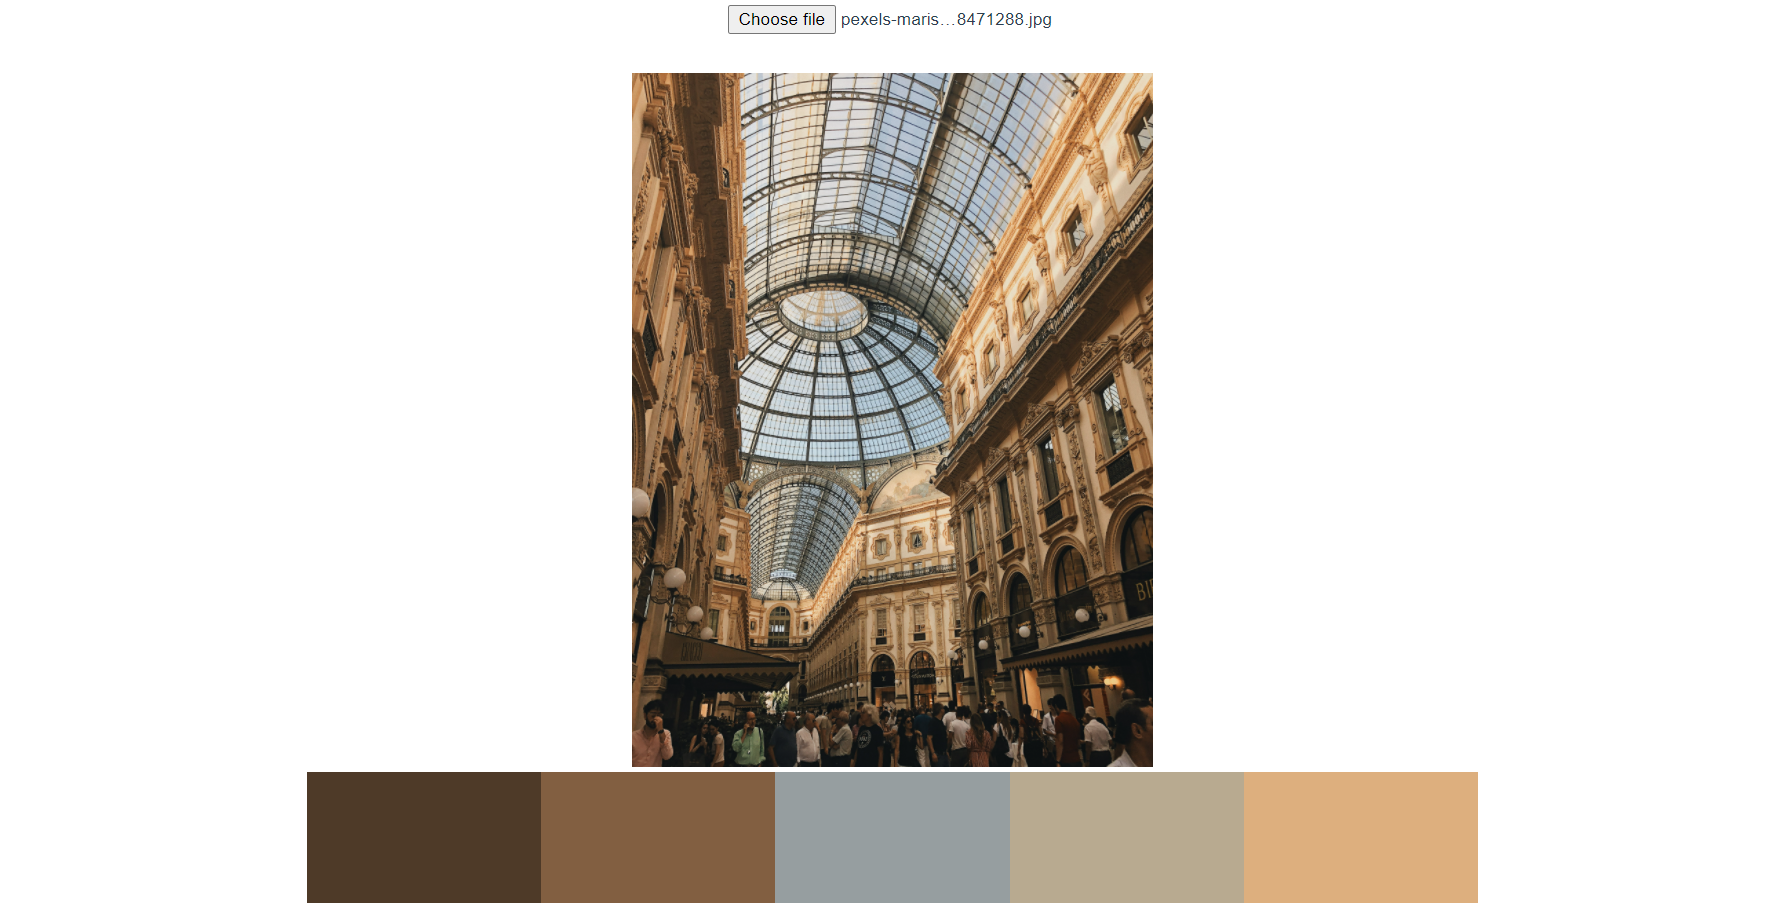
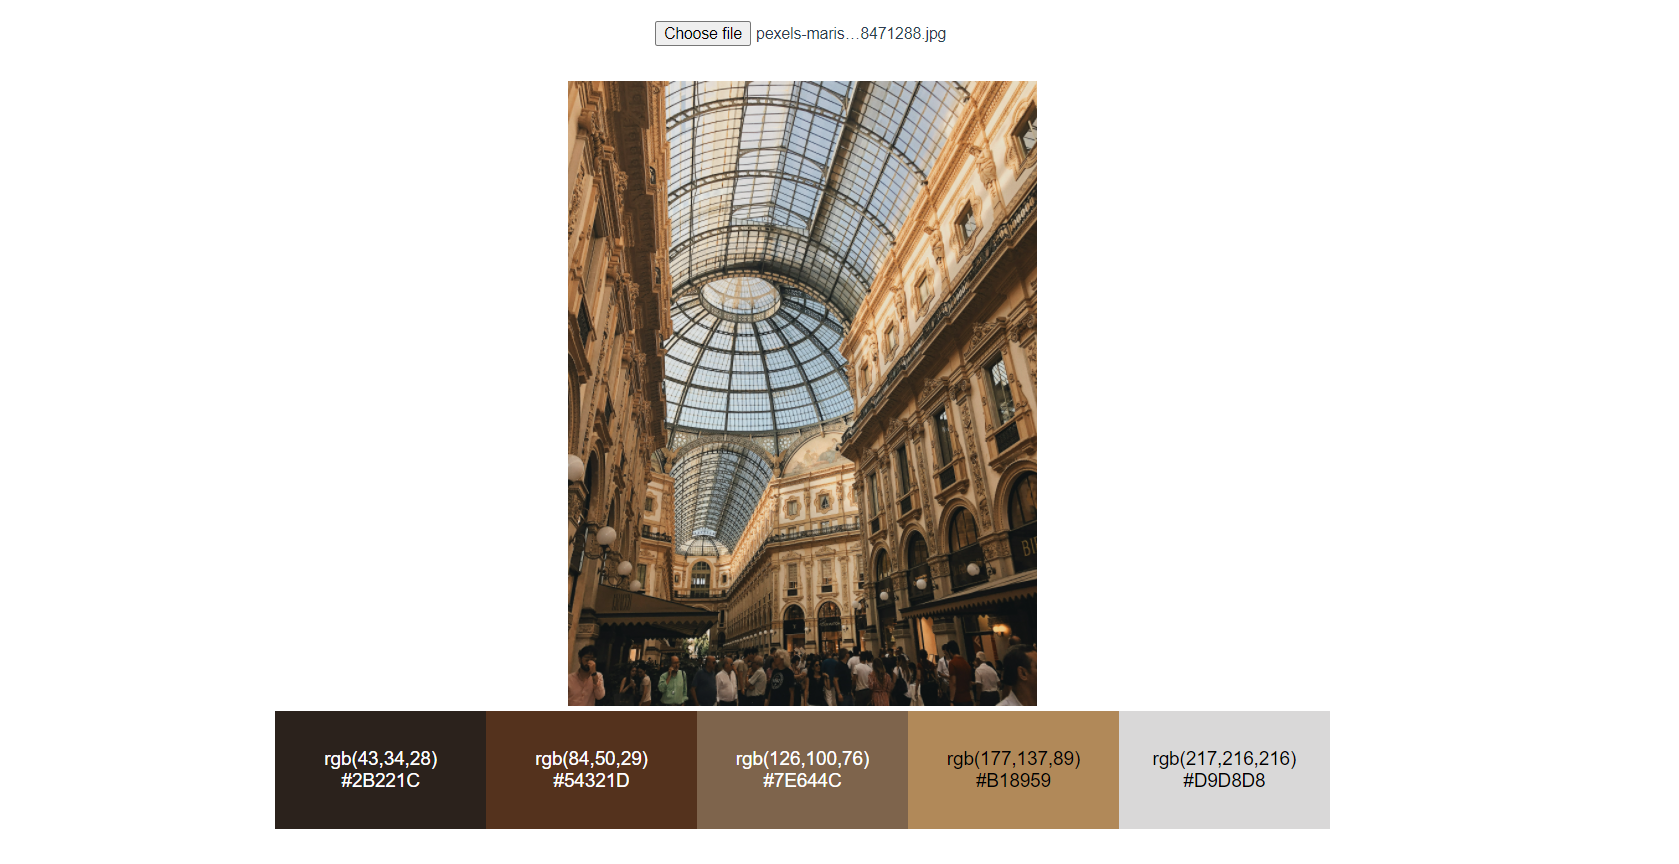
added color hex,rgb values in divs

Changed region(s): [[0.1549, 0.0, 0.8362, 1.0]]

diff --git a/src/App.vue b/src/App.vue
@@ -6,14 +6,17 @@
     <img alt="" ref="imgDisp" style="max-width: 400px;">
     <canvas ref="canvas" v-show="false"/>
     <div class="color-palette">
-      <div class="color" v-for="i in 5" :key="i" :id="i - 1" :ref="setColorDivs"></div>
+      <div class="color" v-for="i in 5" :key="i" :id="i - 1" :ref="setColorDivs">
+        <span id="rgb"></span>
+        <span id="hex"></span>
+      </div>
     </div>
   </div>
 </template>
 
 <script>
 import {ref} from "vue"
-import {getPixelsDecimal,decimalToRGB} from "./util/Color";
+import {getPixelsDecimal,decimalToRGB, rgbToHex, getTextColor} from "./util/Color";
 import kmeans from "./util/kmeans";
 
 export default {
@@ -67,8 +70,18 @@ export default {
       colors.sort((a,b) => a-b);
       colors.forEach((m,i) => {
         let rgb = decimalToRGB(Math.trunc(m));
-        //console.log(colorDivs);
-        colorDivs[i].style.backgroundColor = `rgb(${rgb[0]},${rgb[1]},${rgb[2]})`;
+        let rgbStr = `rgb(${rgb[0]},${rgb[1]},${rgb[2]})`;
+
+        colorDivs[i].style.backgroundColor = rgbStr
+
+        let rgbSpan = colorDivs[i].querySelector("#rgb");
+        let hexSpan = colorDivs[i].querySelector("#hex");
+        let txtColor = getTextColor(rgb[0],rgb[1],rgb[2]);
+
+        rgbSpan.innerHTML = rgbStr;
+        rgbSpan.style.color = txtColor;
+        hexSpan.innerHTML = rgbToHex(rgb[0],rgb[1],rgb[2]);
+        hexSpan.style.color = txtColor;
       })
     }
 
@@ -85,7 +98,7 @@ export default {
 }
 </script>
 
-<style>
+<style lang="scss">
 #app {
   font-family: Avenir, Helvetica, Arial, sans-serif;
   -webkit-font-smoothing: antialiased;
@@ -114,6 +127,17 @@ export default {
 .color{
   width: 180px;
   height: 100px;
+  display: flex;
+  flex-direction: column;
+  align-items: center;
+  justify-content: center;
+
+  span{
+    width: 100%;
+  }
 }
 
+
+
 </style>
+

diff --git a/src/util/Color.js b/src/util/Color.js
@@ -25,5 +25,28 @@ module.exports = {
         var b = c % 256;
 
         return [r,g,b];
+    },
+
+    rgbToHex(r,g,b){
+        return "#"
+                + r.toString(16).padStart(2,"0").toUpperCase()
+                + g.toString(16).padStart(2,"0").toUpperCase()
+                + b.toString(16).padStart(2,"0").toUpperCase();
+    },
+
+    getTextColor(r,g,b){
+        let hsp = Math.sqrt(
+            0.299 * (r * r) +
+            0.587 * (g * g) +
+            0.114 * (b * b)
+            );
+
+        if (hsp>127.5) {
+            return "black";
+        } 
+        else {
+    
+            return "white";
+        }
     }
 }

diff --git a/README.md b/README.md
@@ -1,5 +1,9 @@
 # image-palette
 
+Simple website that generates a color palette from an image using k-means/k-median clustering.
+
+![example](assets/ex.png)
+
 ## Project setup
 ```
 npm install
